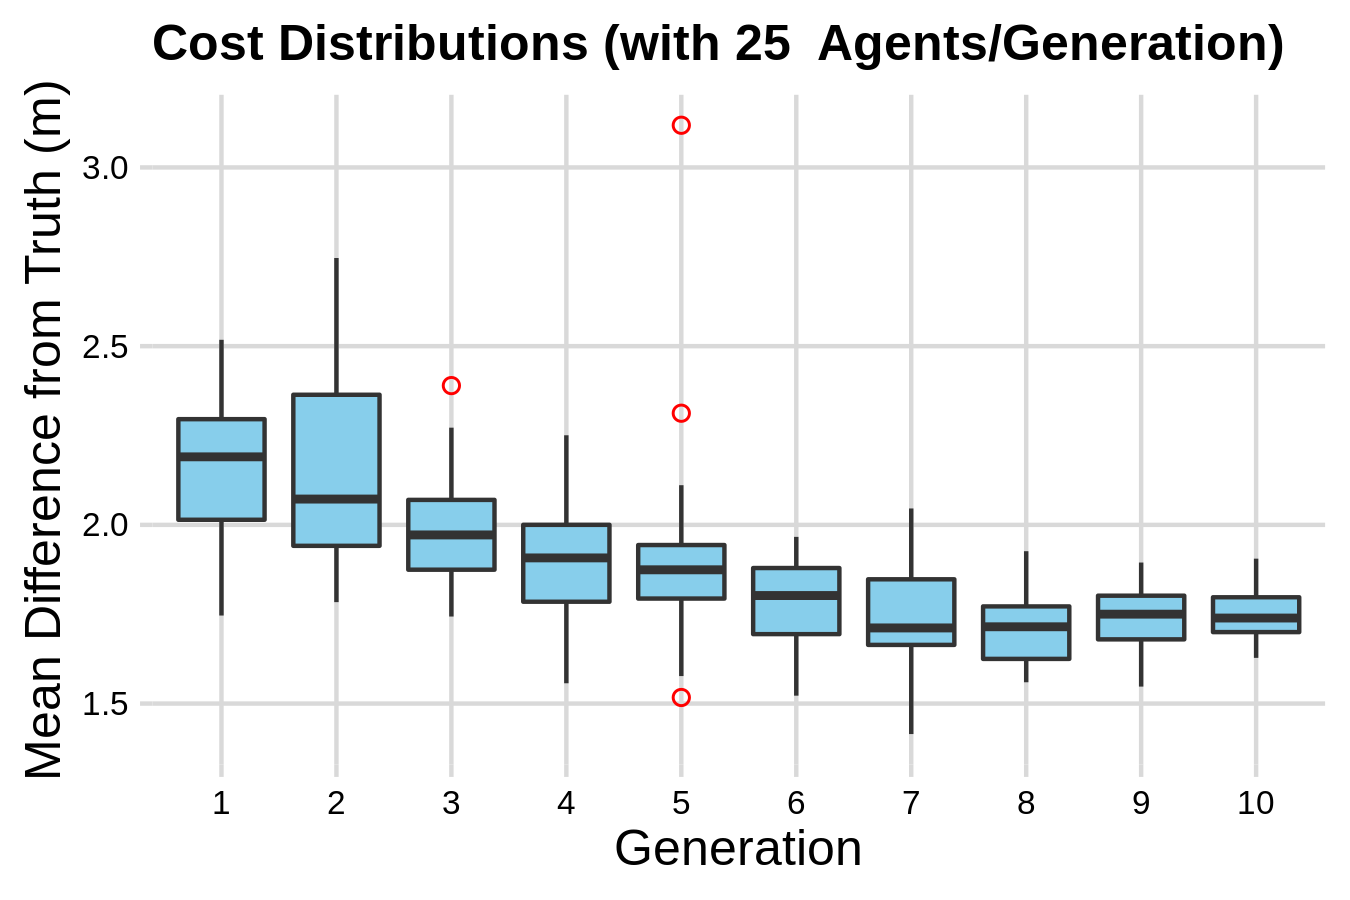
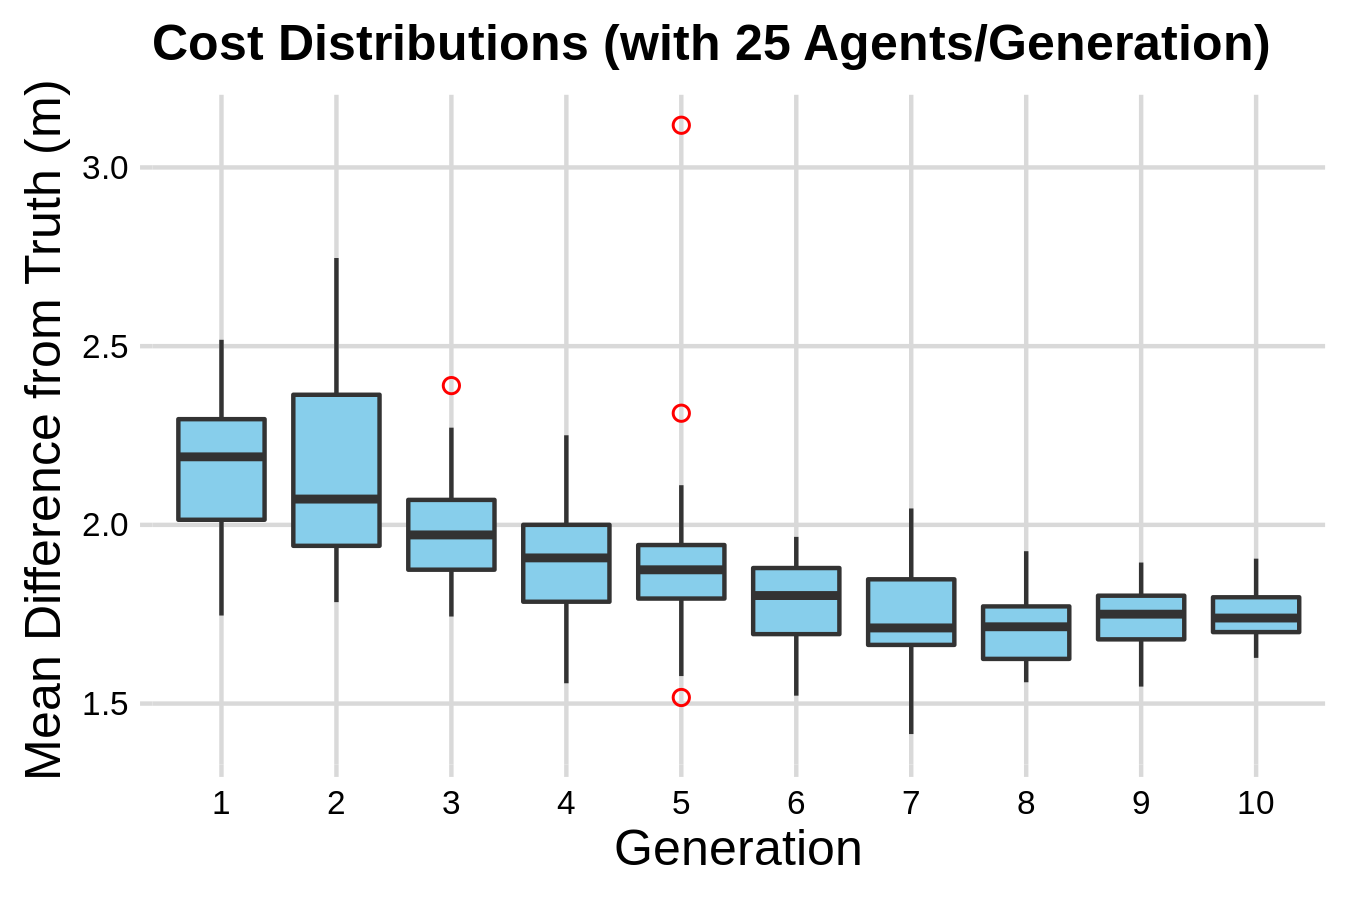
Fix spacing in summary plot title. Write errors in ec_agent calc_fitness to log file instead of console.

Changed region(s): [[0.5911, 0.0311, 0.9644, 0.0933]]

diff --git a/ec_agent.py b/ec_agent.py
@@ -95,7 +95,7 @@ class Agent:
         file1.close
     
     # read the KF data to calculate a fitness for this agent.
-    def calc_fitness(self, fpath:str):
+    def calc_fitness(self, fpath:str, directory:str):
         # check if this agent ended in error
         if self.results["Score"] == -1:
             # set fitness to something big to ensure it is punished
@@ -112,13 +112,19 @@ class Agent:
                 try:
                     l = line.split(",")
                     # skip empty lines
-                    if len(l) < 3: continue
+                    if len(l) < 12: 
+                        file2 = open(directory + "/err_log.txt", "a+")
+                        file2.write("ERR in Agent " + str(self.id) + " len: ", l) #+"\n"
+                        file2.close()
+                        continue
                     tot_fit += abs(float(l[8])-float(l[12])) + abs(float(l[9])-float(l[13]))
                     num_timesteps += 1
                 except:
-                    # print to the console so we can check it out,
+                    # print to the log file so we can check it out,
                     # but don't stop the run.
-                    print("ERR in Agent " + str(self.id) + ": ", l)
+                    file2 = open(fpath, "a+")
+                    file2.write("ERR in Agent " + str(self.id) + ": ", l) #+"\n"
+                    file2.close()
             file1.close()
             if num_timesteps == 0: 
                 num_timesteps = 1

diff --git a/ec_driver.py b/ec_driver.py
@@ -110,7 +110,7 @@ def main():
             run_bash_cmd("bash run_once.sh nondefault")
             # assign the agent a fitness based on the results.
             agent.results = read_results.read_file()
-            agent.calc_fitness(fpath)
+            agent.calc_fitness(fpath, directory)
             # write this agent & its performance to the files.
             agent.write_to_file(summary_filepath)
             read_results.write_file(agent.results)
